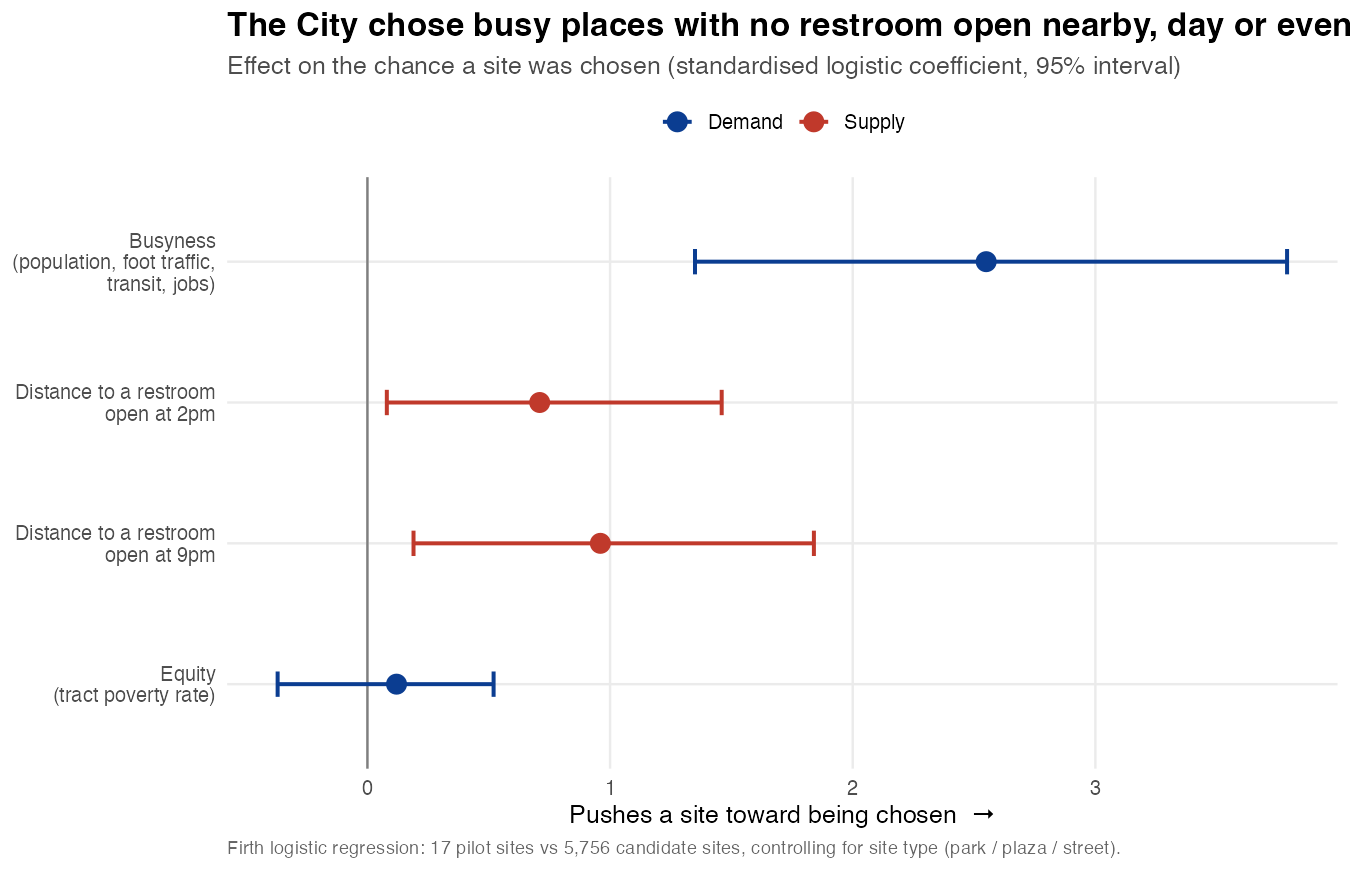
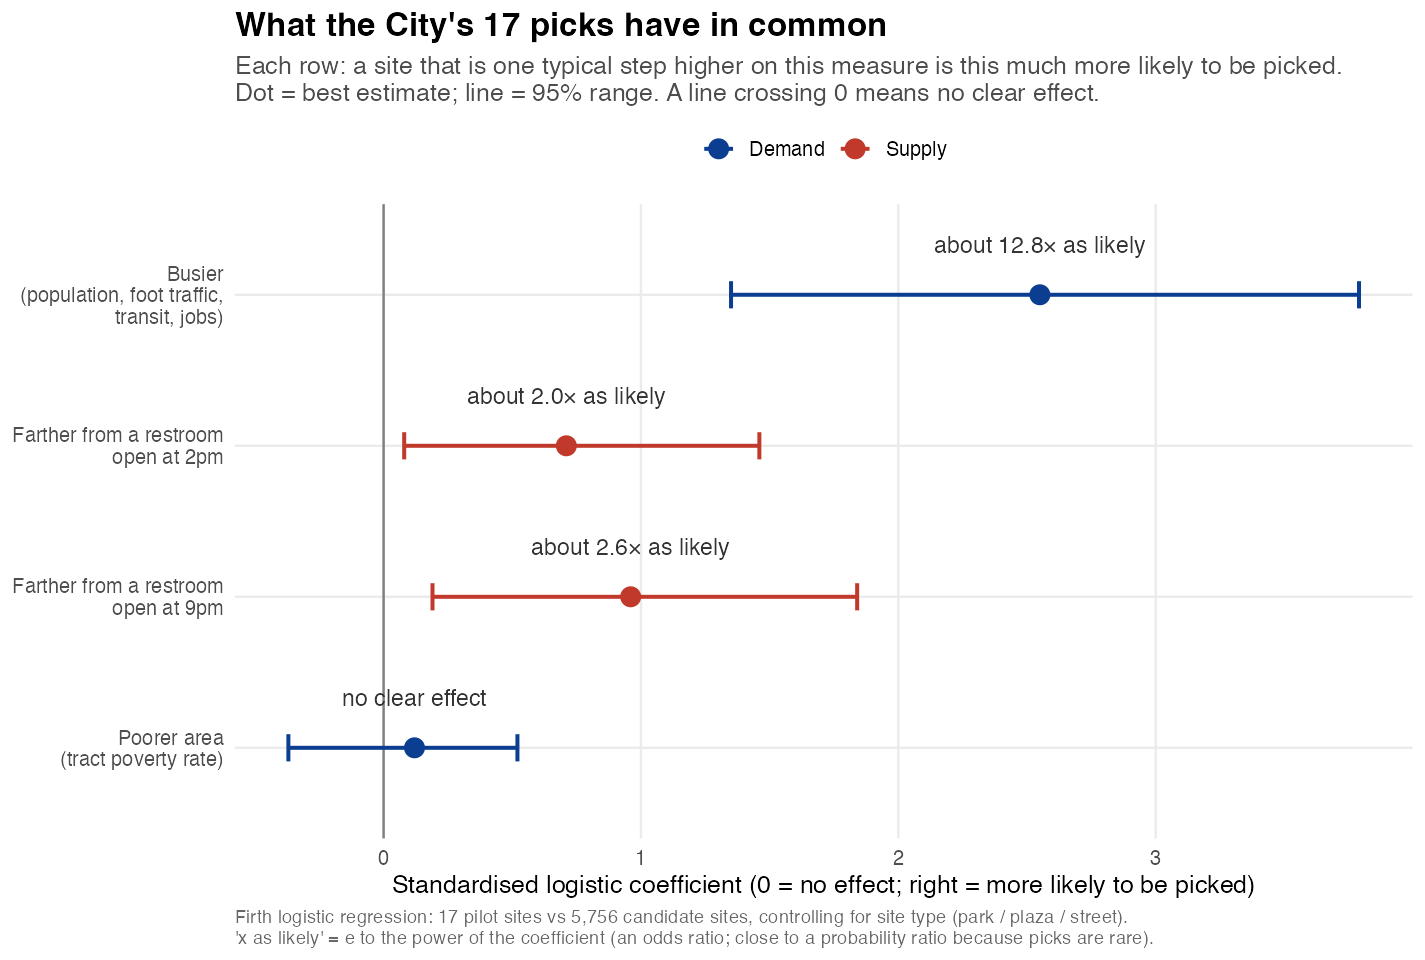
Walkthrough steps 5, 6, 8: plain-language model table with 'x as likely' column and direction labels; step-by-step leave-one-out; clearer pilot comparison table
Charts: g3 relabelled (direction + multipliers, title no longer clipped); g4 adds a 50% random-guess line, caption wrapped.

diff --git a/index.html b/index.html
@@ -497,15 +497,19 @@ An area is underserved when it has insufficient access "because of a lack of pub
 <li><strong>Busyness:</strong> population, foot traffic, transit and jobs rise and fall together (correlations 0.52–0.81), so the model cannot tell their effects apart. We put each on the same scale (logged, then standardised) and average them into one <strong>busyness index</strong>.</li>
 <li><strong>Controls:</strong> distance to a restroom open at 2pm and at 9pm (supply), and site type (park, plaza or street), so each pilot site is compared with sites of its own kind.</li>
 </ul>
-<figure class="chart"><a class="zoom" href="img/plan/g3_pilot_model.png" target="_blank" rel="noopener"><img src="img/plan/g3_pilot_model.png" alt="Coefficient chart: busyness +2.55, distance to a restroom open at 2pm +0.71, at 9pm +0.96, equity +0.12" loading="lazy"></a></figure>
-<div class="tbox" tabindex="0" role="group" aria-label="Table, scrolls horizontally"><table><thead><tr><th>Term (standardised)</th><th>Side</th><th class="n">Coefficient</th><th class="n">95% CI</th></tr></thead><tbody>
-<tr><td><strong>Busyness</strong> (population, foot traffic, transit, jobs)</td><td>Demand</td><td class="n">+2.55</td><td class="n">1.35 to 3.79</td></tr>
-<tr><td><strong>Equity</strong> (tract poverty)</td><td>Demand</td><td class="n">+0.12</td><td class="n">−0.37 to 0.52</td></tr>
-<tr><td><strong>Distance</strong> to a restroom open at 2pm</td><td>Supply</td><td class="n">+0.71</td><td class="n">0.08 to 1.46</td></tr>
-<tr><td><strong>Distance</strong> to a restroom open at 9pm</td><td>Supply</td><td class="n">+0.96</td><td class="n">0.19 to 1.84</td></tr>
-<tr><td>Plaza (vs park)</td><td>Site type</td><td class="n">+1.61</td><td class="n">0.23 to 3.04</td></tr>
-<tr><td>Street corner (vs park)</td><td>Site type</td><td class="n">−2.13</td><td class="n">−3.90 to −0.31</td></tr>
+<figure class="chart"><a class="zoom" href="img/plan/g3_pilot_model.png" target="_blank" rel="noopener"><img src="img/plan/g3_pilot_model.png" alt="Chart of what the 17 pilot sites have in common: busier about 12.8 times as likely, farther from a restroom open at 2pm about 2.0 times, at 9pm about 2.6 times, poorer area no clear effect" loading="lazy"></a></figure>
+<div class="tbox" tabindex="0" role="group" aria-label="Table, scrolls horizontally"><table><thead><tr><th>A site that is…</th><th>Side</th><th class="n">Coefficient (95% CI)</th><th class="n">…is roughly this much more likely to be picked</th></tr></thead><tbody>
+<tr><td><strong>busier</strong> (population, foot traffic, transit, jobs)</td><td>Demand</td><td class="n">+2.55 (1.35 to 3.79)</td><td class="n"><strong>13×</strong></td></tr>
+<tr><td><strong>in a poorer area</strong> (tract poverty)</td><td>Demand</td><td class="n">+0.12 (−0.37 to 0.52)</td><td class="n">no clear effect</td></tr>
+<tr><td><strong>farther from a restroom open at 2pm</strong></td><td>Supply</td><td class="n">+0.71 (0.08 to 1.46)</td><td class="n"><strong>2×</strong></td></tr>
+<tr><td><strong>farther from a restroom open at 9pm</strong></td><td>Supply</td><td class="n">+0.96 (0.19 to 1.84)</td><td class="n"><strong>2.6×</strong></td></tr>
+<tr><td>a plaza rather than park land</td><td>Site type</td><td class="n">+1.61 (0.23 to 3.04)</td><td class="n"><strong>5×</strong></td></tr>
+<tr><td>a street corner rather than park land</td><td>Site type</td><td class="n">−2.13 (−3.90 to −0.31)</td><td class="n"><strong>8× less</strong></td></tr>
 </tbody></table></div>
+<ul>
+<li><strong>How to read it:</strong> each row compares two sites that are the same except for that measure, one typical step apart (one standard deviation), or plaza versus park. The multiplier is e raised to the coefficient (in Excel, <code>=EXP(2.55)</code> ≈ 12.8), an odds ratio from logistic regression. Because picks are rare, it reads as "times as likely".</li>
+<li><strong>The multipliers stack on a tiny starting chance.</strong> Only 17 of about 5,770 sites were picked (0.3%). In the model, an ordinary park site with average busyness has a 0.15% chance; one step busier, about 1.8%; two steps busier, about 19%. Being also far from an open restroom and on a plaza pushes it much higher. The typical pilot site scores about 1.35%, against about 0.1% for the typical candidate. The model ranks which kinds of places look like the City's picks; it does not name exact corners.</li>
+</ul>
 <ul>
 <li><strong>Demand weights:</strong> the two demand terms become the weights for the demand score. Busyness gets <strong>95%</strong> and equity <strong>5%</strong>, each term's share of the two coefficients. Equity gets a small weight because the law names it, although its interval crosses zero.</li>
 <li><strong>Supply:</strong> pilot sites are also farther than other sites from a restroom that is open, by day and especially in the evening. Supply is not weighted into demand; steps 8–9 subtract it directly.</li>
@@ -517,7 +521,14 @@ An area is underserved when it has insufficient access "because of a lack of pub
 <h3 id="p-validate">6 — Does the model hold up? <span class="mtag in">S7 · train/test</span></h3>
 <figure class="chart"><a class="zoom" href="img/plan/g4_leave_one_out.png" target="_blank" rel="noopener"><img src="img/plan/g4_leave_one_out.png" alt="Dot chart: each hidden pilot site outranks between 37% and 100% of candidate sites, median 97%" loading="lazy"></a></figure>
 <ul>
-<li><strong>The test:</strong> hide one pilot site, fit the model on the other 16, and see where the hidden site ranks among all 5,756 candidates. Repeat for each of the 17. With only 17 sites, each is held out in turn (leave-one-out).</li>
+<li><strong>Why test at all:</strong> the model learned its weights from the 17 pilot sites, so it will naturally rate those same sites highly. The fair test is whether it rates highly a pilot site it has never seen, the train/test idea from class.</li>
+<li><strong>One round, step by step</strong> (for example, hiding Plaza Alianza Dominicana):
+  <ol>
+  <li>Fit the model on the other 16 pilot sites (picked) and the 5,756 candidate sites (not picked). The hidden site is left out entirely.</li>
+  <li>Use those weights to score every candidate site, and the hidden site.</li>
+  <li>Count how many of the 5,756 candidates score below the hidden site. If 5,730 do, the hidden site outranks 5,730 ÷ 5,756 ≈ 99.5%, about 27th place.</li>
+  </ol></li>
+<li><strong>Repeat 17 times</strong>, hiding a different pilot site each time (leave-one-out). Each dot on the chart is one round. 100% means the hidden site beat every candidate; 50% is what a random guess would average.</li>
 <li><strong>Result:</strong> the typical hidden site ranks above <strong>97%</strong> of candidates (median; mean 88%). 12 of the 17 rank above at least 85%.</li>
 <li>The weakest fit is Admiral Farragut Playground (37%). Four others sit at 69–75%: 34th Ave &amp; 64th St, Mapes Park, Fulton &amp; Truxton St and the North Shore Esplanade.</li>
 <li>In-sample AUC is 0.91: the chance that a picked site outscores an unpicked one. Because it uses the fitting data, the held-out ranking above is the better test.</li>
@@ -548,12 +559,13 @@ An area is underserved when it has insufficient access "because of a lack of pub
 </ul>
 <p><strong>What that leaves.</strong> A working restroom open within 500 m:</p>
 <figure class="chart"><a class="zoom" href="img/plan/g6_supply_day_evening.png" target="_blank" rel="noopener"><img src="img/plan/g6_supply_day_evening.png" alt="Two maps: at 2pm 70% of candidate sites have a working restroom open within 500 m; at 9pm 16%" loading="lazy"></a></figure>
-<div class="tbox" tabindex="0" role="group" aria-label="Table, scrolls horizontally"><table><thead><tr><th>A restroom open within 500 m</th><th class="n">Candidate sites</th><th class="n">The City's 17 pilot sites</th></tr></thead><tbody>
-<tr><td>At 2pm</td><td class="n">70%</td><td class="n">13 of 17</td></tr>
-<tr><td>At 9pm</td><td class="n">16%</td><td class="n"><strong>1 of 17</strong></td></tr>
+<div class="tbox" tabindex="0" role="group" aria-label="Table, scrolls horizontally"><table><thead><tr><th>Already had a working restroom open within 500 m…</th><th class="n">All 5,814 candidate sites</th><th class="n">The 17 places the City chose for pilot units</th></tr></thead><tbody>
+<tr><td>at 2pm</td><td class="n">70%</td><td class="n">13 of 17</td></tr>
+<tr><td>at 9pm</td><td class="n">16%</td><td class="n"><strong>1 of 17</strong></td></tr>
 </tbody></table></div>
+<p class="note">The right-hand column asks what was already around the 17 pilot locations, not counting the pilot units themselves.</p>
 <ul>
-<li>Most pilot sites already have a restroom nearby by day, but almost none have one in the evening, and the pilot units stay open until 10pm. The shortage the pilot addresses is an evening shortage.</li>
+<li>Most of the places the City chose already had a restroom nearby by day, but almost none had one in the evening, and the pilot units stay open until 10pm. The shortage the pilot addresses is an evening shortage.</li>
 <li>We therefore measure supply at 9pm, the hour the pilot units are designed to serve.</li>
 </ul>
 
